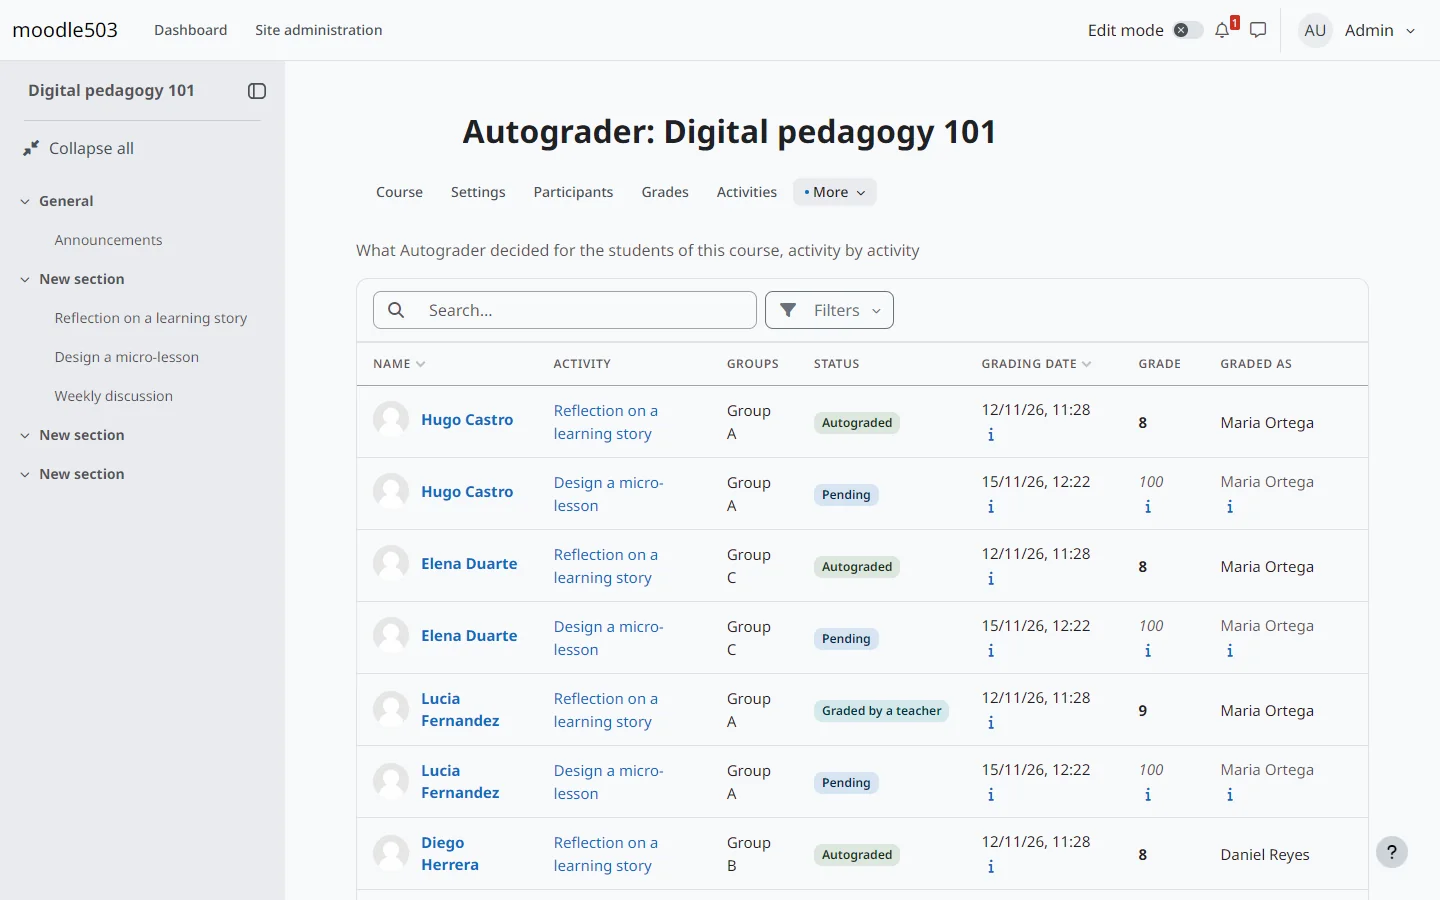
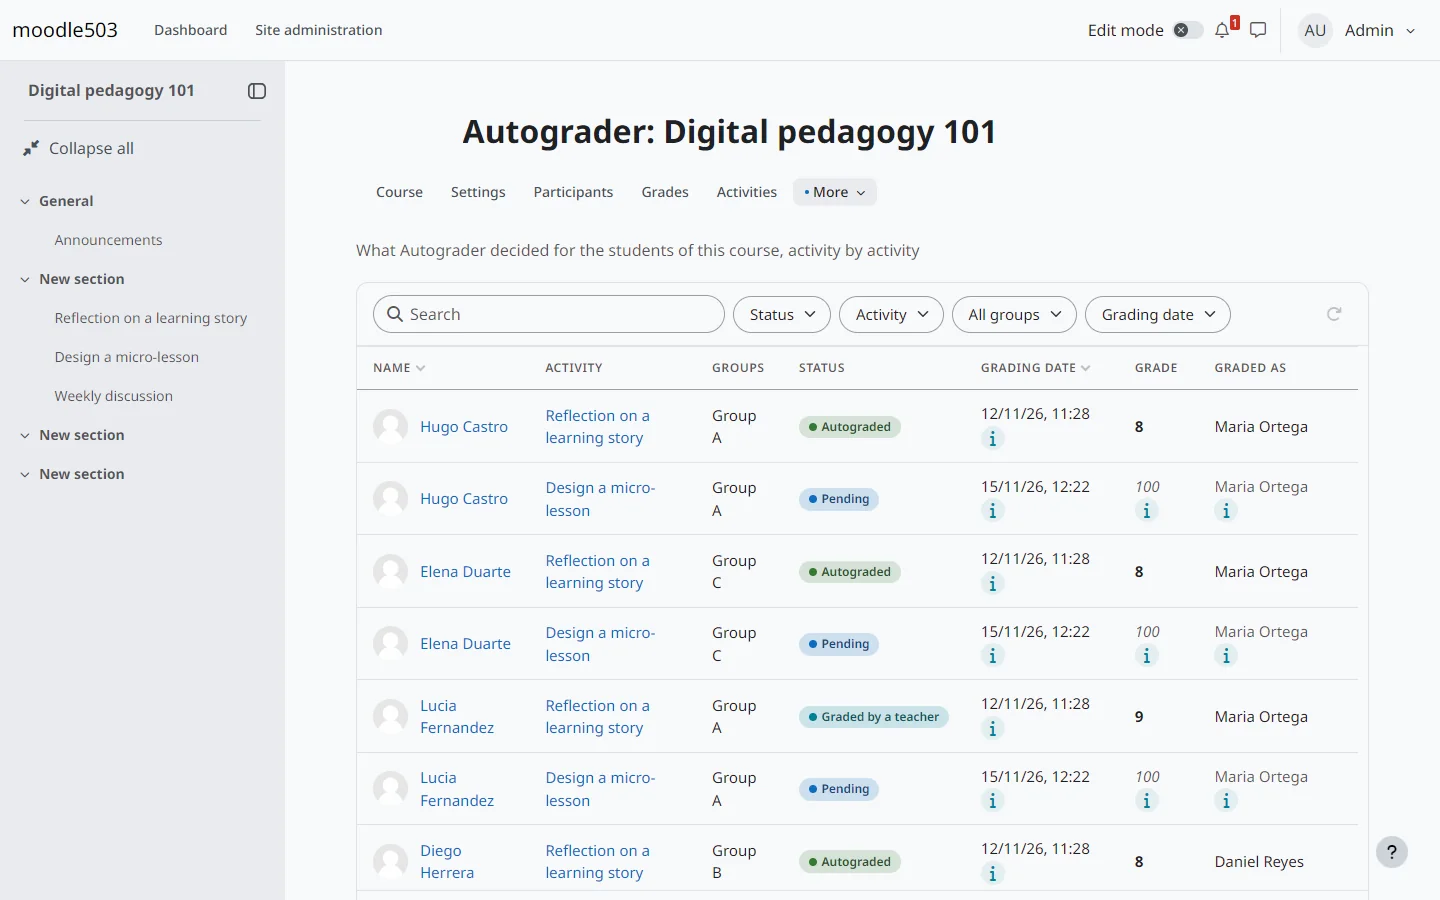
docs: the filter menus, the pager, the guided tour and its setting
The guides of the activity, the course and the graders describe one menu for each filter with the cross that clears
it, the pager with the sizes that fit the list and the table that keeps its height. A new guide presents the guided
tour, and the reference lists the setting that makes it required. The technical documentation follows: the cards of
narrowReport and viewReport, the rules RN-009 to RN-011, the requirement RF-007 and the files that implement them.
The screenshots are taken again.

diff --git a/docs/es/reference/webservices.md b/docs/es/reference/webservices.md
@@ -4,13 +4,14 @@ summary: Las funciones que alimentan las páginas del informe y qué lee cada un
 order: 41
 ---
 
-Las páginas del informe leen sus datos mediante tres funciones de servicio web. Solo leen, están disponibles para las páginas de Moodle (AJAX) y exigen un usuario con sesión iniciada que tenga la capacidad del nivel que piden.
+Las páginas del informe leen sus datos mediante cuatro funciones de servicio web. Solo leen, están disponibles para las páginas de Moodle (AJAX) y exigen un usuario con sesión iniciada que tenga la capacidad del nivel que piden.
 
 | Función | Lee | Parámetros |
 |---|---|---|
-| `report_autograder_get_report` | Una página del informe de una actividad, un curso o el sitio | `cmid`, `courseid`, `page`, `limit`, `filters` (una lista de nombre y valor), `sortcolumn`, `sortdir`, `withtotal` |
+| `report_autograder_get_report` | Una página del informe de una actividad, un curso o el sitio | `cmid`, `courseid`, `page`, `limit` (0 para 12 filas, -1 para todas las filas hasta 1000), `filters` (una lista de nombre y valor), `sortcolumn`, `sortdir`, `withtotal` |
 | `report_autograder_search_filter_options` | Las opciones de los selectores de curso y de actividad de la barra de filtros | `type` (curso o actividad), `query`, `cmid`, `courseid`, `filtercourseid` |
-| `report_autograder_get_graders` | Con quién calificaría Autograder en un curso, y para qué estudiantes | `courseid`, `students`, `page`, `perpage` |
+| `report_autograder_get_graders_overview` | Los cursos en los que Autograder está activado, con quién podría calificar en cada uno | `search`, `page`, `perpage` (0 para 12 filas, -1 para todas) |
+| `report_autograder_get_graders` | Con quién calificaría Autograder en un curso, y para qué estudiantes | `courseid`, `students`, `page`, `perpage` (0 para 12 filas, -1 para todas), `search`, `filter` (all, fallback o nobody) |
 
 La función devuelve además, una vez por cada conjunto de filtros y junto con el total, el número de estudiantes de cada estado: la clave, el nombre y el recuento de cada estado, contado dentro de todos los demás filtros salvo el propio estado. Un cambio de página no devuelve recuentos.
 

diff --git a/docs/en/reference/webservices.md b/docs/en/reference/webservices.md
@@ -4,13 +4,14 @@ summary: The functions that feed the pages of the report, and what each one read
 order: 41
 ---
 
-The pages of the report read their data through three web-service functions. They only read, they are available to the pages of Moodle (AJAX) and they require a logged-in user who has the capability of the level they ask for.
+The pages of the report read their data through four web-service functions. They only read, they are available to the pages of Moodle (AJAX) and they require a logged-in user who has the capability of the level they ask for.
 
 | Function | Reads | Parameters |
 |---|---|---|
-| `report_autograder_get_report` | One page of the report of an activity, a course or the site | `cmid`, `courseid`, `page`, `limit`, `filters` (a list of name and value), `sortcolumn`, `sortdir`, `withtotal` |
+| `report_autograder_get_report` | One page of the report of an activity, a course or the site | `cmid`, `courseid`, `page`, `limit` (0 for 12 rows, -1 for every row up to 1000), `filters` (a list of name and value), `sortcolumn`, `sortdir`, `withtotal` |
 | `report_autograder_search_filter_options` | The options of the course and activity pickers of the filter bar | `type` (course or activity), `query`, `cmid`, `courseid`, `filtercourseid` |
-| `report_autograder_get_graders` | Who Autograder would grade as in a course, and for which students | `courseid`, `students`, `page`, `perpage` |
+| `report_autograder_get_graders_overview` | The courses where Autograder is enabled, with who could grade in each | `search`, `page`, `perpage` (0 for 12 rows, -1 for every row) |
+| `report_autograder_get_graders` | Who Autograder would grade as in a course, and for which students | `courseid`, `students`, `page`, `perpage` (0 for 12 rows, -1 for every row), `search`, `filter` (all, fallback or nobody) |
 
 The function also returns, once for each set of filters and with the total, the number of students in each status: the key, the name and the count of each status, counted inside every other filter but the status itself. A page turn returns no counts.
 

diff --git a/docs/es/technical/requirements/requirements.md b/docs/es/technical/requirements/requirements.md
@@ -17,6 +17,7 @@ sourceOfTruth: code
 | RF-004 | Las calificaciones fallidas y sus motivos solo se muestran a los lectores con la capacidad de ver los fallos. | Debe | `classes/local/format/status.php` | UC-001, UC-002 |
 | RF-005 | Un lector puede acotar el informe por nombre, estado, grupo, fecha de calificación, actividad y curso, y ver cuántos estudiantes hay en cada estado. | Debe | `classes/local/query/filters.php`, `classes/external/search_filter_options.php` | UC-004 |
 | RF-006 | Un docente puede pasar de una fila del informe a la pantalla de calificación de la actividad. | Debería | `classes/local/page/grader_ui.php` | UC-005 |
+| RF-007 | Un docente que abre por primera vez el informe de una actividad o de un curso recibe una presentación del informe mediante un recorrido guiado, que un administrador puede hacer obligatorio. | Should | `tours/report.json`, `lib.php`, `settings.php` | UC-001 |
 
 ## No funcionales
 

diff --git a/docs/en/technical/requirements/requirements.md b/docs/en/technical/requirements/requirements.md
@@ -17,6 +17,7 @@ sourceOfTruth: code
 | RF-004 | Failed gradings and their reasons are shown only to readers with the capability to see failures. | Must | `classes/local/format/status.php` | UC-001, UC-002 |
 | RF-005 | A reader can narrow the report by name, status, group, grading date, activity and course, and see how many students are in each status. | Must | `classes/local/query/filters.php`, `classes/external/search_filter_options.php` | UC-004 |
 | RF-006 | A teacher can go from a row of the report to the grading screen of the activity. | Should | `classes/local/page/grader_ui.php` | UC-005 |
+| RF-007 | A teacher who opens the report of an activity or of a course for the first time is presented the report with a guided tour, which an administrator can make required. | Should | `tours/report.json`, `lib.php`, `settings.php` | UC-001 |
 
 ## Non-functional
 

diff --git a/docs/es/technical/implementation/use-cases/viewReport/README.md b/docs/es/technical/implementation/use-cases/viewReport/README.md
@@ -21,7 +21,9 @@ Diseño: [README](../../../design/use-cases/viewReport/README.md)
 | --- | --- | --- | --- |
 | `get_report` | servicio web | `classes/external/get_report.php` | sí |
 | Página del informe | página | `index.php` | sí |
-| Chips de los estados | componente React | `js/esm/src/components/StatusTabs.tsx` | sí |
+| Tabla en una caja de una sola altura | componente React | `js/esm/src/components/ReportTable.tsx`, `js/esm/src/components/ui.tsx` (`TableBox`, `Empty`) | sí |
+| Recorrido guiado | recorrido de usuario | `tours/report.json`, `lib.php` (`report_autograder_import_tours`), `db/install.php`, `db/upgrade.php` | sí |
+| Ajuste que hace obligatorio el recorrido | ajuste | `settings.php` (`report_autograder/tourrequired`), `index.php` | sí |
 | Pantalla del informe | componente React | `js/esm/src/Report.tsx` | sí |
 
 ## Pruebas

diff --git a/docs/en/technical/implementation/use-cases/viewReport/README.md b/docs/en/technical/implementation/use-cases/viewReport/README.md
@@ -21,7 +21,9 @@ Design: [README](../../../design/use-cases/viewReport/README.md)
 | --- | --- | --- | --- |
 | `get_report` | web service | `classes/external/get_report.php` | yes |
 | Page of the report | page | `index.php` | yes |
-| Status chips | React component | `js/esm/src/components/StatusTabs.tsx` | yes |
+| Table in a box of one height | React component | `js/esm/src/components/ReportTable.tsx`, `js/esm/src/components/ui.tsx` (`TableBox`, `Empty`) | yes |
+| Guided tour | user tour | `tours/report.json`, `lib.php` (`report_autograder_import_tours`), `db/install.php`, `db/upgrade.php` | yes |
+| Setting that makes the tour required | setting | `settings.php` (`report_autograder/tourrequired`), `index.php` | yes |
 | Report screen | React component | `js/esm/src/Report.tsx` | yes |
 
 ## Tests

diff --git a/docs/es/technical/implementation/use-cases/narrowReport/README.md b/docs/es/technical/implementation/use-cases/narrowReport/README.md
@@ -22,7 +22,8 @@ Diseño: [README](../../../design/use-cases/narrowReport/README.md)
 | `filters` | clase | `classes/local/query/filters.php` | sí |
 | `report_query` | clase | `classes/local/query/report_query.php` | sí |
 | `search_filter_options` | servicio web | `classes/external/search_filter_options.php` | sí |
-| `StatusTabs` and the toolbar | archivo | `js/esm/src/components/StatusTabs.tsx`, `js/esm/src/components/Toolbar.tsx` | sí |
+| Menús de filtro y el botón que los quita | componente React | `js/esm/src/components/Filters.tsx`, `js/esm/src/components/ui.tsx` (`Menu`, `SelectMenu`), `js/esm/src/Report.tsx` | sí |
+| Paginador | componente React | `js/esm/src/components/ui.tsx` (`Pager`), `js/esm/src/lib/paging.ts` | sí |
 
 ## Pruebas
 

diff --git a/docs/en/technical/implementation/use-cases/narrowReport/README.md b/docs/en/technical/implementation/use-cases/narrowReport/README.md
@@ -22,7 +22,8 @@ Design: [README](../../../design/use-cases/narrowReport/README.md)
 | `filters` | class | `classes/local/query/filters.php` | yes |
 | `report_query` | class | `classes/local/query/report_query.php` | yes |
 | `search_filter_options` | web service | `classes/external/search_filter_options.php` | yes |
-| `StatusTabs` and the toolbar | file | `js/esm/src/components/StatusTabs.tsx`, `js/esm/src/components/Toolbar.tsx` | yes |
+| Filter menus and the button that clears them | React component | `js/esm/src/components/Filters.tsx`, `js/esm/src/components/ui.tsx` (`Menu`, `SelectMenu`), `js/esm/src/Report.tsx` | yes |
+| Pager | React component | `js/esm/src/components/ui.tsx` (`Pager`), `js/esm/src/lib/paging.ts` | yes |
 
 ## Tests
 
